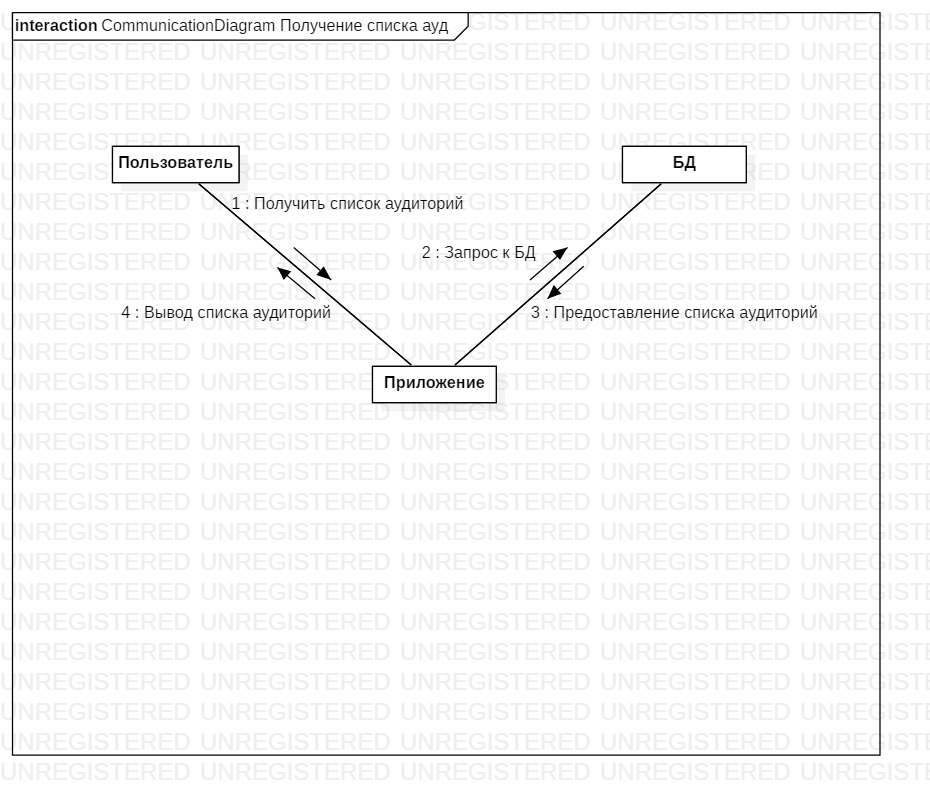
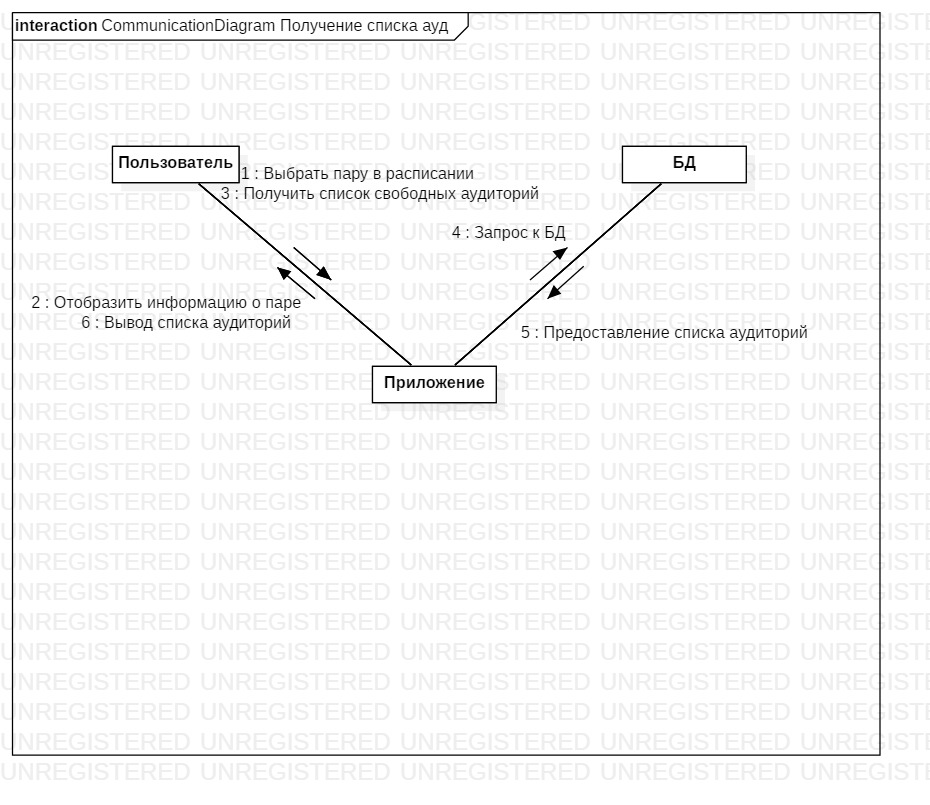
Создала модуль составления расписания

diff --git a/WindowsFormsApplication1/WindowsFormsApplication1/Form1.cs b/WindowsFormsApplication1/WindowsFormsApplication1/Form1.cs
@@ -17,14 +17,17 @@ namespace TimeTableProject
     {
         private MySqlConnection connect;
         private MySqlDataAdapter commonDataAdapter; //заполняет DataSet данными из БД
-        static int changedRow, changedDiscipline;
-        private int myIndex, discIndex;
+        static int changedRow, changedColumn, changedDiscipline;
+        DataGridView[] dgvWeekArray;
+        private int myIndex, ringIndex, discIndex;
+       // List<int> ringIDList, groupIDList, dayIDList;
+
 
         Applic app = new Applic();
   
         private DataSet commonDataSet, disciplineDataSet;  //хранилище данных
 
-        //DataGridView[] dgvWeekArray;
+        
         public Form1()
         {
             InitializeComponent();
@@ -44,8 +47,25 @@ namespace TimeTableProject
 
             connect.Clone();
             showDataBase();
-
+            dgvWeekArray = new DataGridView[] { dGV_tabMonday, dGV_tabTuesday, dGV_tabWednesday, dGV_tabThursday, dGV_tabFriday, dGV_tabSaturday };
+            fillDGVnull();
+            fillTimetableDataGrid(dgvWeekArray);
+           
         }
+        private void fillDGVnull()
+        {
+            for (int m = 0; m < dgvWeekArray.Length; m++)
+            {
+                for (int i = 0; i < dgvWeekArray[m].RowCount; i++)
+                {
+                    for (int j = 0; j < dgvWeekArray[m].ColumnCount; j++)
+                    {
+                        dgvWeekArray[m].Rows[i].Cells[j].Value = "";
+                    }
+                }
+            }
+        }
+
 
         #region Преподаватель (Lecturer) 
 
@@ -218,6 +238,8 @@ namespace TimeTableProject
             }
         }
 
+        
+
         //изменение аудитории 
         private void button_updateRoom_Click(object sender, EventArgs e)
         {
@@ -237,7 +259,9 @@ namespace TimeTableProject
                 MessageBox.Show(ex.Message);
             }
         }
-        
+
+       
+
         //удаление аудитории 
         private void button_deleteRoom_Click(object sender, EventArgs e)
         {
@@ -255,6 +279,7 @@ namespace TimeTableProject
             }
         }
 
+
         private void dGV_Rooms_MouseDoubleClick(object sender, MouseEventArgs e)
         {
             try
@@ -270,6 +295,111 @@ namespace TimeTableProject
             }
         }
         #endregion
+
+        #region Составление расписания
+
+        private void dGV_tabMonday_MouseDoubleClick(object sender, MouseEventArgs e)
+        {
+            clickOnTimeiableDGV(dGV_tabMonday);
+        }
+
+        private void dGV_tabTuesday_MouseDoubleClick(object sender, MouseEventArgs e)
+        {
+            clickOnTimeiableDGV(dGV_tabTuesday);
+        }
+
+        private void dGV_tabWednesday_MouseDoubleClick(object sender, MouseEventArgs e)
+        {
+            clickOnTimeiableDGV(dGV_tabWednesday);
+        }
+
+        private void dGV_tabThursday_MouseDoubleClick(object sender, MouseEventArgs e)
+        {
+            clickOnTimeiableDGV(dGV_tabThursday);
+        }
+        private void dGV_tabFriday_MouseDoubleClick(object sender, MouseEventArgs e)
+        {
+            clickOnTimeiableDGV(dGV_tabFriday);
+        }
+
+        private void dGV_tabSaturday_MouseDoubleClick(object sender, MouseEventArgs e)
+        {
+            clickOnTimeiableDGV(dGV_tabSaturday);
+        }
+        private void clickOnTimeiableDGV(DataGridView inputDGV)
+        {
+            try
+            {
+                changedRow = inputDGV.SelectedCells[0].RowIndex;
+                changedColumn = inputDGV.SelectedCells[0].ColumnIndex;
+                string groupName = (inputDGV.Columns[changedColumn].HeaderCell.Value).ToString();
+                ringIndex = Convert.ToInt32(inputDGV.Rows[changedRow].HeaderCell.Value);
+                label_selectedGroup.Text = groupName;
+                label_selectedRing.Text = ringIndex.ToString();
+            }
+            catch (Exception ex)
+            {
+                MessageBox.Show(ex.Message);
+            }
+        }
+        private void fillTimetableDataGrid(DataGridView[] dgvArray)
+        {
+            for (int i = 0; i < dgvArray.Length; i++)
+            {
+                drawDataGrid(dgvArray[i]);
+            }
+        }
+        private void drawDataGrid(DataGridView dgv)
+        {
+            dgv.RowCount = app.getScalarCount(Queries.selectCountRings, connect);
+            dgv.ColumnCount = app.getScalarCount(Queries.selectCountGroups, connect);
+            string[] helpArray = new string[dgv.ColumnCount];
+            List<string> groupNameForHeaders = app.getGroupList(Queries.selectGroupName, connect);
+            for (int i = 0; i < dgv.RowCount; i++)
+            {
+                dgv.Rows[i].HeaderCell.Value = (i + 1).ToString();
+            }
+            int j = 0;
+            foreach (string gName in groupNameForHeaders)
+            {
+                helpArray[j] = gName;
+                j++;
+            }
+            for (int i = 0; i < dgv.ColumnCount; i++)
+            {
+                dgv.Columns[i].HeaderCell.Value = helpArray[i];
+            }
+        }
+        private void fillTable(string[] lessons, List<int> r, List<int> g, List<int> d)
+        {
+            for (int i = 0; i < lessons.Length; i++)
+            {
+                dgvWeekArray[d[i] - 1].Rows[r[i] - 1].Cells[g[i] - 1].Value = lessons[i];
+            }
+        }
+         
+        private void button_addLesson_Click(object sender, EventArgs e)
+        {
+            try
+            {
+                if (comboBox_discipline.Text != "" && comboBox_room.Text != "" && comboBox_Lecturer.Text != "" && label_selectedGroup.Text != "" && label_selectedRing.Text != "")
+                {
+                    //написать
+                    showDataBase();
+                }
+                else
+                {
+                    MessageBox.Show("Заполните поля!");
+                }
+
+            }
+            catch (Exception ex)
+            {
+                MessageBox.Show(ex.Message);
+            }
+        }
+        #endregion
+
 
         #region Общие методы (common methods)
         private void showDataBase()

diff --git a/WindowsFormsApplication1/WindowsFormsApplication1/Form1.Designer.cs b/WindowsFormsApplication1/WindowsFormsApplication1/Form1.Designer.cs
@@ -277,6 +277,7 @@
             this.button_addLesson.TabIndex = 16;
             this.button_addLesson.Text = "Добавить занятие";
             this.button_addLesson.UseVisualStyleBackColor = true;
+            this.button_addLesson.Click += new System.EventHandler(this.button_addLesson_Click);
             // 
             // label11
             // 
@@ -349,6 +350,7 @@
             this.tabControl_Days.SelectedIndex = 0;
             this.tabControl_Days.Size = new System.Drawing.Size(773, 297);
             this.tabControl_Days.TabIndex = 0;
+            this.tabControl_Days.MouseDoubleClick += new System.Windows.Forms.MouseEventHandler(this.dGV_tabTuesday_MouseDoubleClick);
             // 
             // tabPage_Monday
             // 
@@ -376,6 +378,7 @@
             this.dataGridView2.ReadOnly = true;
             this.dataGridView2.Size = new System.Drawing.Size(743, 302);
             this.dataGridView2.TabIndex = 2;
+            this.dataGridView2.MouseDoubleClick += new System.Windows.Forms.MouseEventHandler(this.dGV_tabMonday_MouseDoubleClick);
             // 
             // dGV_tabMonday
             // 
@@ -442,6 +445,7 @@
             this.dataGridView3.ReadOnly = true;
             this.dataGridView3.Size = new System.Drawing.Size(743, 302);
             this.dataGridView3.TabIndex = 2;
+            this.dataGridView3.MouseDoubleClick += new System.Windows.Forms.MouseEventHandler(this.dGV_tabWednesday_MouseDoubleClick);
             // 
             // dGV_tabWednesday
             // 
@@ -480,6 +484,7 @@
             this.dataGridView4.ReadOnly = true;
             this.dataGridView4.Size = new System.Drawing.Size(743, 302);
             this.dataGridView4.TabIndex = 2;
+            this.dataGridView4.MouseDoubleClick += new System.Windows.Forms.MouseEventHandler(this.dGV_tabThursday_MouseDoubleClick);
             // 
             // dGV_tabThursday
             // 
@@ -518,6 +523,7 @@
             this.dataGridView5.ReadOnly = true;
             this.dataGridView5.Size = new System.Drawing.Size(743, 302);
             this.dataGridView5.TabIndex = 3;
+            this.dataGridView5.MouseDoubleClick += new System.Windows.Forms.MouseEventHandler(this.dGV_tabFriday_MouseDoubleClick);
             // 
             // dGV_tabFriday
             // 
@@ -556,6 +562,7 @@
             this.dataGridView6.ReadOnly = true;
             this.dataGridView6.Size = new System.Drawing.Size(743, 302);
             this.dataGridView6.TabIndex = 3;
+            this.dataGridView6.MouseDoubleClick += new System.Windows.Forms.MouseEventHandler(this.dGV_tabSaturday_MouseDoubleClick);
             // 
             // dGV_tabSaturday
             // 

diff --git a/WindowsFormsApplication1/WindowsFormsApplication1/Applic.cs b/WindowsFormsApplication1/WindowsFormsApplication1/Applic.cs
@@ -42,5 +42,22 @@ namespace WindowsFormsApplication1
             return ds.Tables[0];
         }
 
+        public List<string> getGroupList(string query, MySqlConnection con)
+        {
+            MySqlCommand command = new MySqlCommand(query, con);
+            MySqlDataReader reader = command.ExecuteReader();
+            List<string> ourList = new List<string>();
+            if (reader.HasRows)
+            {
+                while (reader.Read())
+                {
+                    ourList.Add(reader.GetString(0));
+                }
+            }
+            reader.Close();
+            return ourList;
+        }
+            
     }
 }
+
